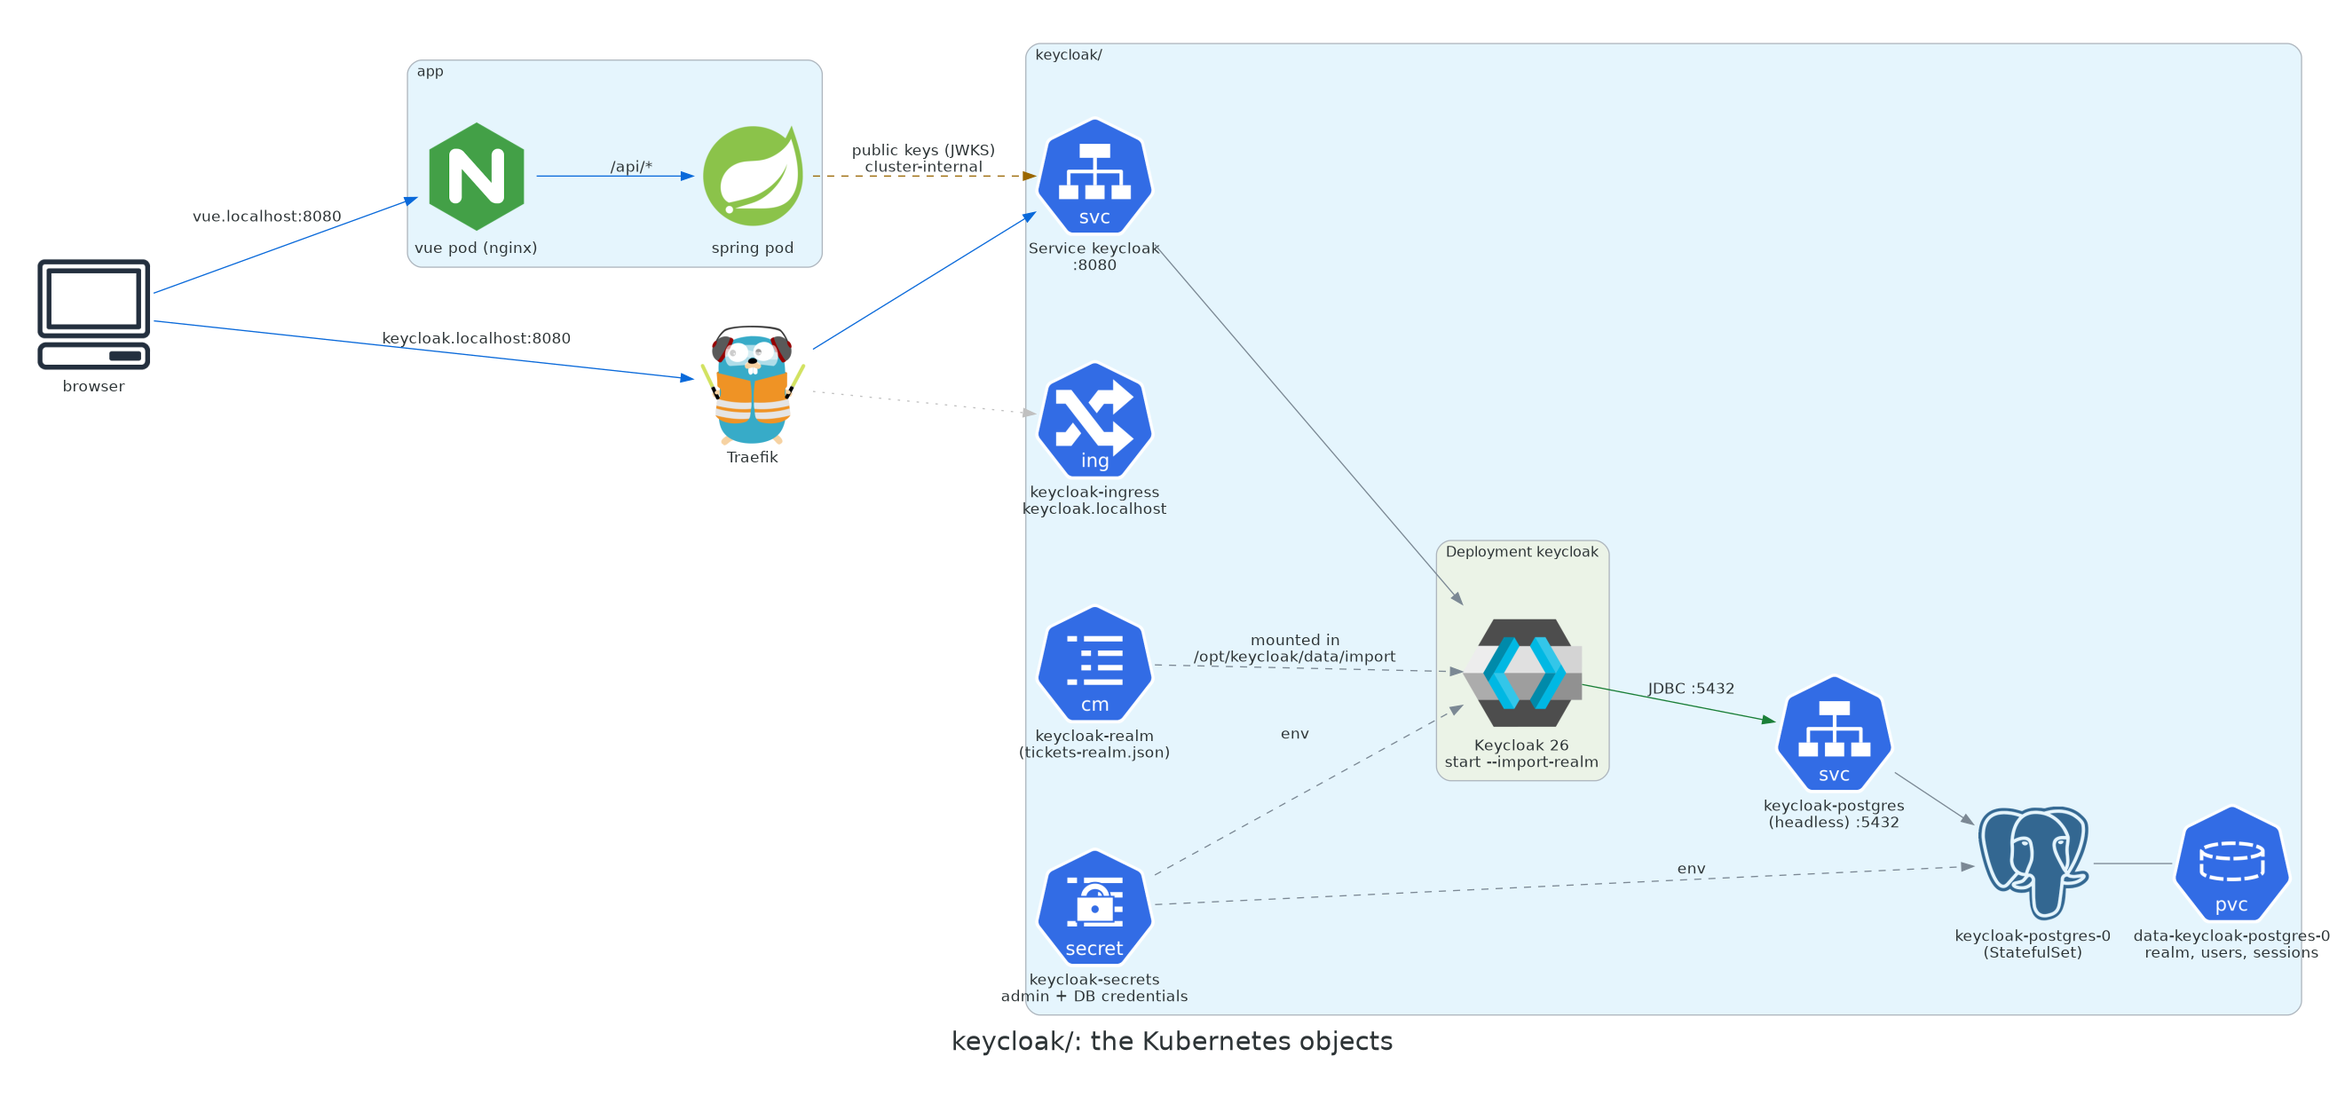
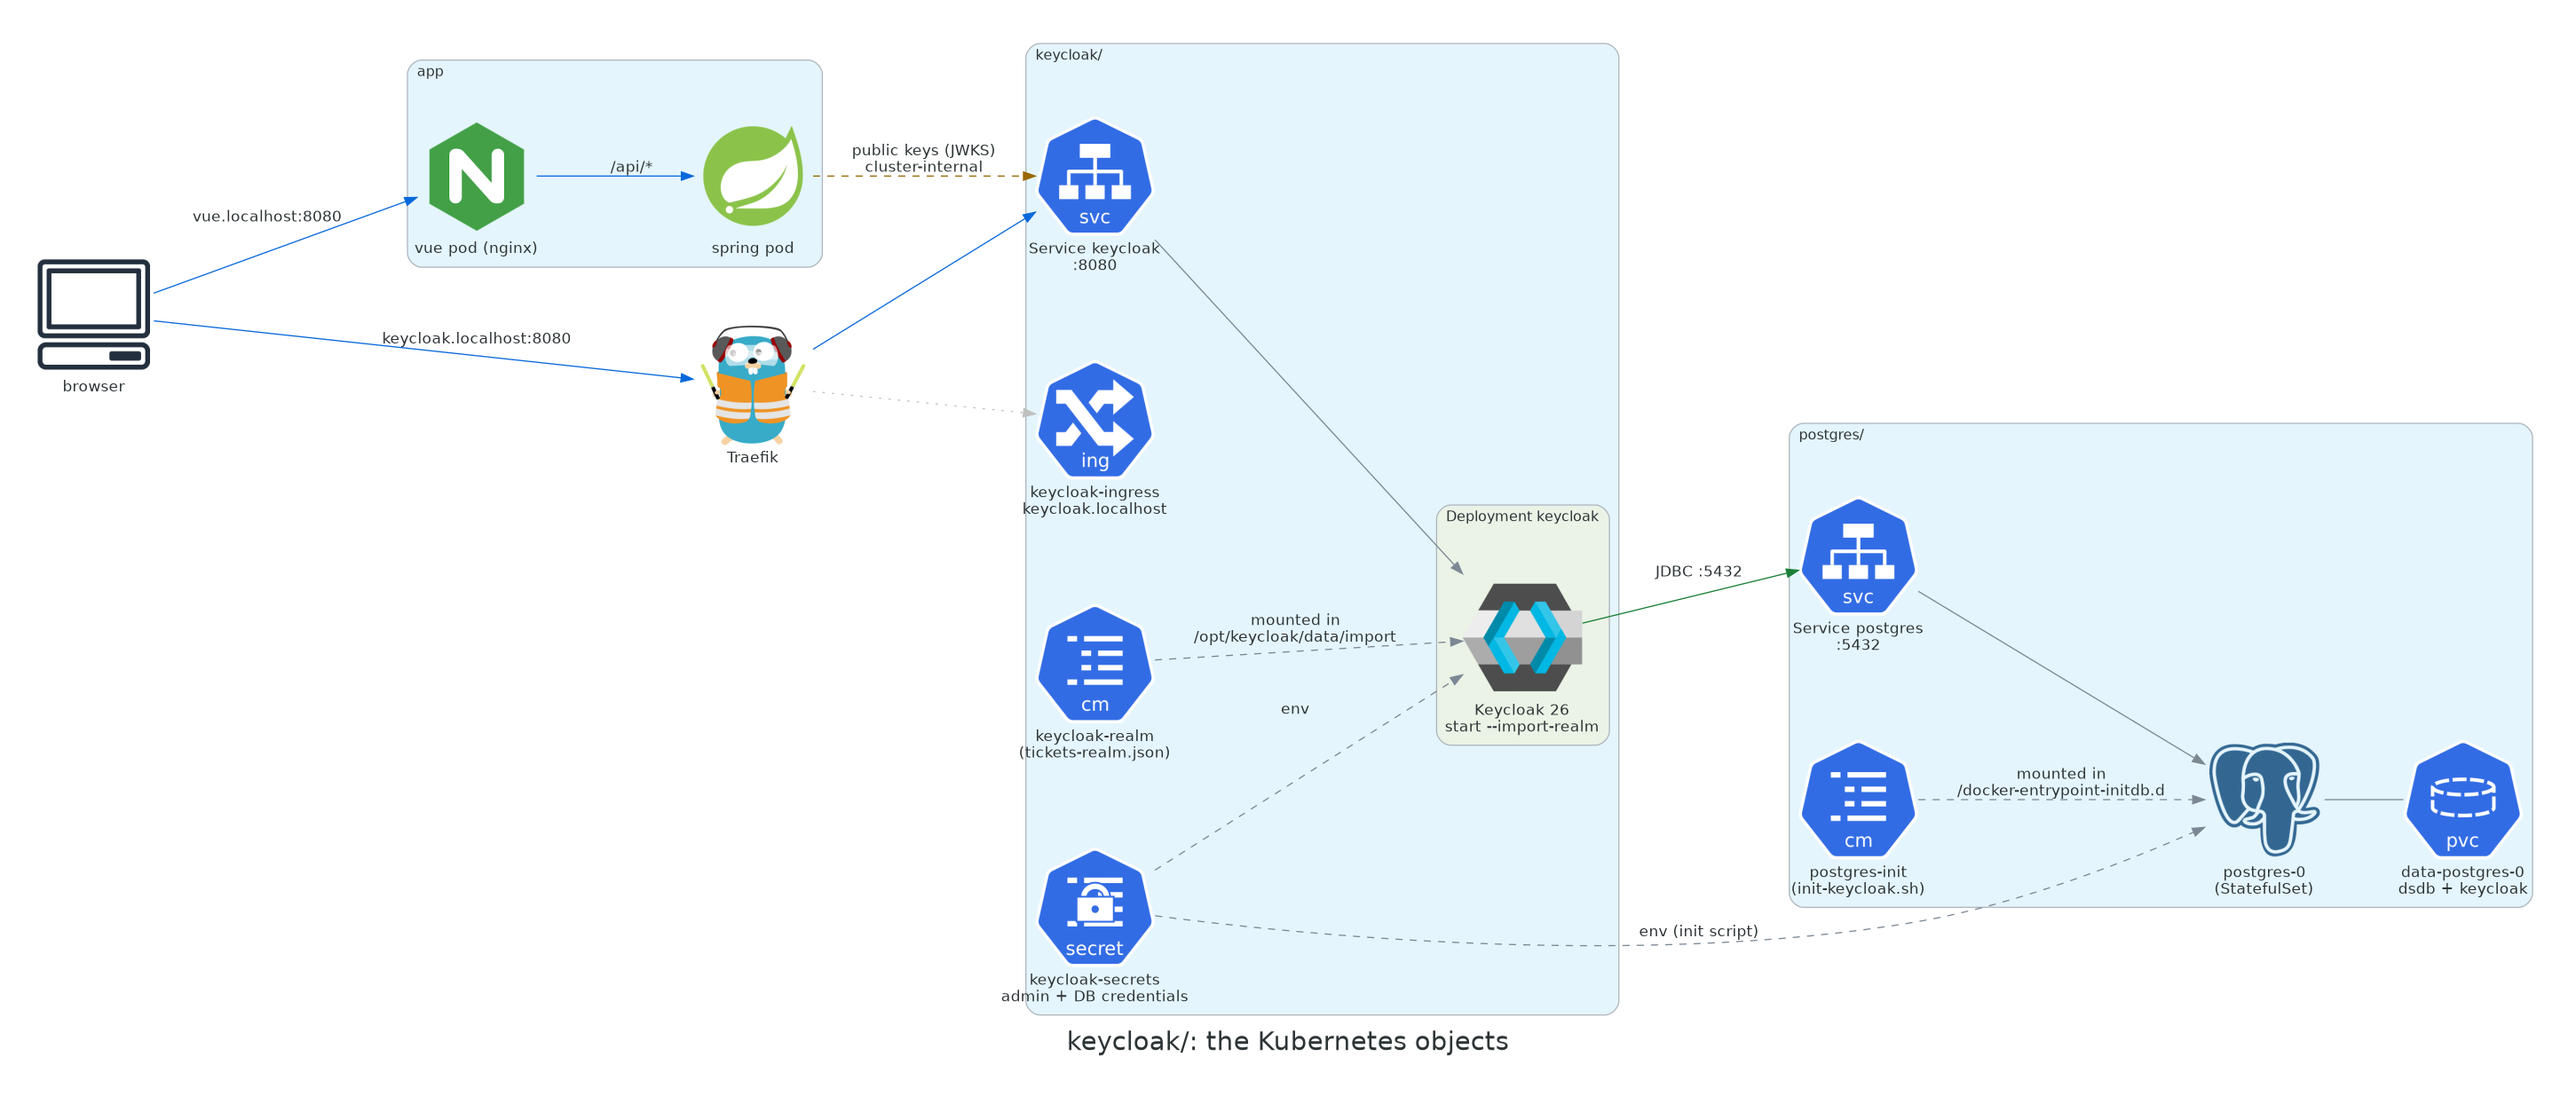
refactor(keycloak): use shared postgres for database
Removes the dedicated PostgreSQL StatefulSet for Keycloak. Keycloak now uses the existing shared PostgreSQL instance, with an init script to create its specific user and database.

This simplifies the deployment and reduces resource usage. Updates deployment instructions and diagrams accordingly.

Changed region(s): [[0.0621, 0.0308, 0.9932, 0.9846], [0.1241, 0.2769, 0.3414, 0.4308], [0.0, 0.2462, 0.1241, 0.3692]]

diff --git a/docs/diagrams/diagrams_src.py b/docs/diagrams/diagrams_src.py
@@ -70,18 +70,17 @@ def architecture():
                 spring = Spring("spring-deployment")
             with Cluster("database (postgres/)"):
                 pg_svc = Service("postgres :5432")
-                pg = PostgreSQL("postgres-0\n(StatefulSet)")
+                pg = PostgreSQL("postgres-0\n(StatefulSet)\ndsdb + keycloak")
             with Cluster("login (keycloak/)"):
                 kc_svc = Service("keycloak :8080")
                 kc = Keycloak("keycloak")
-                kc_pg = PostgreSQL("keycloak-postgres-0\n(StatefulSet)")
 
         browser >> http("HTTP / HTTPS") >> traefik
         traefik >> http("vue.localhost\nor public name") >> vue_svc >> vue
         vue >> http("/api/*") >> spring_svc >> spring
         spring >> db() >> pg_svc >> pg
         traefik >> http("keycloak.localhost\n(login page, tokens)") >> kc_svc >> kc
-        kc >> db() >> kc_pg
+        kc >> db() >> pg_svc
         spring >> keys() >> kc_svc
 
 
@@ -158,16 +157,15 @@ def keycloak_overview():
             with Cluster("login"):
                 kc_svc = Service("keycloak :8080")
                 kc = Keycloak("Keycloak\nrealm tickets")
-                kc_pg = PostgreSQL("keycloak-postgres")
             with Cluster("app"):
                 vue_svc = Service("vue-svc")
                 nginx = Nginx("nginx\n/ , /config.json")
                 spring = Spring("spring")
-                pg = PostgreSQL("postgres")
+                pg = PostgreSQL("postgres\n(dsdb + keycloak)")
 
         browser >> http("1  keycloak.localhost:8080\nlogin page, tokens") >> traefik
         browser >> http("2  vue.localhost:8080\napp + API (Bearer token)") >> traefik
-        traefik >> http("Host keycloak.localhost") >> kc_svc >> kc >> db("") >> kc_pg
+        traefik >> http("Host keycloak.localhost") >> kc_svc >> kc >> db("") >> pg
         traefik >> http("Host vue.localhost") >> vue_svc >> nginx >> http("/api/*") >> spring >> db("") >> pg
         spring >> keys("3  public keys (JWKS)\nonce, cluster-internal\nhttp://keycloak:8080") >> kc_svc
 
@@ -199,9 +197,11 @@ def keycloak_components():
                 kc = Keycloak("Keycloak 26\nstart --import-realm")
             cm = ConfigMap("keycloak-realm\n(tickets-realm.json)")
             secret = Secret("keycloak-secrets\nadmin + DB credentials")
-            pg_svc = Service("keycloak-postgres\n(headless) :5432")
-            pg = PostgreSQL("keycloak-postgres-0\n(StatefulSet)")
-            pvc = PVC("data-keycloak-postgres-0\nrealm, users, sessions")
+        with Cluster("postgres/"):
+            pg_svc = Service("Service postgres\n:5432")
+            pg = PostgreSQL("postgres-0\n(StatefulSet)")
+            init_cm = ConfigMap("postgres-init\n(init-keycloak.sh)")
+            pvc = PVC("data-postgres-0\ndsdb + keycloak")
         with Cluster("app"):
             nginx = Nginx("vue pod (nginx)")
             spring = Spring("spring pod")
@@ -211,7 +211,8 @@ def keycloak_components():
         traefik >> http() >> svc >> kc
         cm >> Edge(label="mounted in\n/opt/keycloak/data/import", style="dashed") >> kc
         secret >> Edge(label="env", style="dashed") >> kc
-        secret >> Edge(label="env", style="dashed") >> pg
+        secret >> Edge(label="env (init script)", style="dashed") >> pg
+        init_cm >> Edge(label="mounted in\n/docker-entrypoint-initdb.d", style="dashed") >> pg
         kc >> db() >> pg_svc >> pg
         pg - pvc
         browser >> http("vue.localhost:8080") >> nginx >> http("/api/*") >> spring

diff --git a/keycloak/README.md b/keycloak/README.md
@@ -7,14 +7,15 @@ This directory runs Keycloak in the cluster for the Tickets app. **How the backe
 | File | What it creates |
 | --- | --- |
 | [keycloak-secret.yaml](keycloak-secret.yaml) | Secret `keycloak-secrets`: the first admin user and the database credentials |
-| [keycloak-postgres.yaml](keycloak-postgres.yaml) | Keycloak's own PostgreSQL: StatefulSet + headless Service `keycloak-postgres` |
 | [realm/tickets-realm.json](realm/tickets-realm.json) | the realm `tickets`: clients, roles, demo users. Loaded into the ConfigMap `keycloak-realm` |
 | [keycloak-deployment.yaml](keycloak-deployment.yaml) | Deployment `keycloak` (image `quay.io/keycloak/keycloak:26.8.2`), production mode, imports the realm |
 | [keycloak-svc.yaml](keycloak-svc.yaml) | ClusterIP Service `keycloak`, port 8080 |
 | [keycloak-ingress.yaml](keycloak-ingress.yaml) | HTTP Ingress for **`keycloak.localhost`** (Traefik, entrypoint `web`) |
 | [keycloak-ingress-letsencrypt.yaml](keycloak-ingress-letsencrypt.yaml) | public **HTTPS** Ingress with Let's Encrypt, only on a cluster reachable from the internet |
 
-![Kubernetes objects of keycloak/: Ingress, Service keycloak, Deployment keycloak with the realm ConfigMap and the Secret, headless Service keycloak-postgres, StatefulSet keycloak-postgres-0 with its PVC; Spring fetches the public keys from Service keycloak](../docs/images/keycloak-components.png)
+Keycloak's database lives in the **shared** `postgres` StatefulSet (see [postgres/README.md](../postgres/README.md)). The `keycloak` database and user are created by an init script ([postgres/postgres-init.yaml](../postgres/postgres-init.yaml)) on the first start of that pod.
+
+![Kubernetes objects of keycloak/: Ingress, Service keycloak, Deployment keycloak with the realm ConfigMap and the Secret; Spring fetches the public keys from Service keycloak; both Keycloak and Spring share the postgres StatefulSet](../docs/images/keycloak-components.png)
 
 The browser talks to Keycloak **directly** (login page, token requests). The Spring backend only downloads Keycloak's **public keys** over the internal Service, to verify the signature of the tokens.
 
@@ -25,7 +26,7 @@ The browser talks to Keycloak **directly** (login page, token requests). The Spr
 | What | Why | How to check |
 | --- | --- | --- |
 | Traefik ingress controller | serves `keycloak-ingress.yaml` | `kubectl get ingressclass` ([main README](../README.md#install-the-traefik-ingress-controller)) |
-| Default StorageClass | for the PVC of `keycloak-postgres` | `kubectl get storageclass` (`standard` on minikube, `microk8s-hostpath` on MicroK8s) |
+| `postgres` StatefulSet running | Keycloak's database is the `keycloak` database on the shared postgres | `kubectl get statefulset postgres` ([postgres/README.md](../postgres/README.md)) |
 | ~1 GB free memory | Keycloak is a Java (Quarkus) server; the limit is 1Gi | `kubectl top nodes` (needs metrics-server) |
 
 ---
@@ -34,16 +35,14 @@ The browser talks to Keycloak **directly** (login page, token requests). The Spr
 
 ```bash
 # 1. credentials (change the passwords first for anything but a local playground)
+#    Must be applied BEFORE postgres so the init script can read the credentials.
 kubectl apply -f keycloak/keycloak-secret.yaml
 
-# 2. Keycloak's database
-kubectl apply -f keycloak/keycloak-postgres.yaml
-kubectl rollout status statefulset/keycloak-postgres
-
-# 3. the realm, as a ConfigMap built from the JSON file
+# 2. the realm, as a ConfigMap built from the JSON file
 kubectl create configmap keycloak-realm --from-file=keycloak/realm/tickets-realm.json
 
-# 4. Keycloak, its Service and Ingress
+# 3. Keycloak, its Service and Ingress
+#    (postgres must already be running — it hosts the "keycloak" database)
 kubectl apply -f keycloak/keycloak-deployment.yaml -f keycloak/keycloak-svc.yaml -f keycloak/keycloak-ingress.yaml
 kubectl rollout status deployment/keycloak --timeout=5m
 ```
@@ -88,8 +87,8 @@ Keycloak is configured with `KC_*` environment variables ([all options](https://
 | Variable | Value | Meaning |
 | --- | --- | --- |
 | *(args)* | `start --import-realm` | **production mode**. `start-dev` would use an embedded H2 database, plain HTTP everywhere and caching off: fine on a laptop, not in a cluster |
-| `KC_DB`, `KC_DB_URL` | `postgres`, `jdbc:postgresql://keycloak-postgres:5432/keycloak` | Keycloak's own database |
-| `KC_DB_USERNAME`, `KC_DB_PASSWORD` | from Secret `keycloak-secrets` | the same keys set `POSTGRES_USER` / `POSTGRES_PASSWORD` of the database |
+| `KC_DB`, `KC_DB_URL` | `postgres`, `jdbc:postgresql://postgres:5432/keycloak` | Keycloak's database on the shared postgres StatefulSet |
+| `KC_DB_USERNAME`, `KC_DB_PASSWORD` | from Secret `keycloak-secrets` | the user and database created by [postgres/postgres-init.yaml](../postgres/postgres-init.yaml) on first init |
 | `KC_BOOTSTRAP_ADMIN_USERNAME`, `..._PASSWORD` | from Secret `keycloak-secrets` | temporary admin of the `master` realm, created only when the database is **empty** |
 | `KC_HTTP_ENABLED` | `true` | allow plain HTTP. TLS is terminated by Traefik, which forwards plain HTTP inside the cluster |
 | `KC_HOSTNAME_STRICT` | `false` | no fixed public URL: Keycloak uses the URL each request was sent to (see below) |
@@ -283,10 +282,11 @@ To apply an edited JSON file, start from an empty realm:
 kubectl create configmap keycloak-realm --from-file=keycloak/realm/tickets-realm.json --dry-run=client -o yaml | kubectl apply -f -
 kubectl rollout restart deployment/keycloak
 
-# b) or wipe all of Keycloak's data (the database volume)
-kubectl delete -f keycloak/keycloak-deployment.yaml -f keycloak/keycloak-postgres.yaml
-kubectl delete pvc data-keycloak-postgres-0
-# ... then deploy again
+# b) or wipe all of Keycloak's data (drop the keycloak database from the shared postgres)
+kubectl delete -f keycloak/keycloak-deployment.yaml
+kubectl exec -it postgres-0 -- psql -U dbuser -c "DROP DATABASE keycloak;" -c "DROP USER keycloak;"
+# ... then deploy Keycloak again (postgres re-runs the init script only on a fresh PVC;
+#     for an existing PVC you must recreate the database manually as above)
 ```
 
 To go the other way and save the changes you made in the console as JSON: *Realm settings* → *Action* → *Partial export* (users and secrets are not included).
@@ -347,8 +347,9 @@ Behind HTTPS, `KC_PROXY_HEADERS=xforwarded` is what makes Keycloak generate `htt
 | Symptom | Likely cause |
 | --- | --- |
 | Pod `0/1` for minutes, restarts | first start is slow (build + schema). Check `kubectl logs deploy/keycloak`. If the startup probe gave up, the database may be unreachable |
-| Log: `Connection to keycloak-postgres:5432 refused` | `keycloak-postgres-0` is not Ready yet. `kubectl rollout status statefulset/keycloak-postgres` |
-| Log: `password authentication failed for user "keycloak"` | the Secret was changed after the database was created. Postgres keeps the first password: restore it, or delete the PVC `data-keycloak-postgres-0` |
+| Log: `Connection to postgres:5432 refused` | `postgres-0` is not Ready yet. `kubectl rollout status statefulset/postgres` |
+| Log: `password authentication failed for user "keycloak"` | the Secret was changed after the database was created. Restore it, or drop and recreate the user: `kubectl exec -it postgres-0 -- psql -U dbuser -c "ALTER USER keycloak WITH PASSWORD 'new-pass';"` |
+| Log: `database "keycloak" does not exist` | the init script did not run (PVC already existed). Create the database manually: `kubectl exec -it postgres-0 -- psql -U dbuser -c "CREATE USER keycloak WITH PASSWORD 'keycloak-db-pass'; CREATE DATABASE keycloak OWNER keycloak;"` |
 | Pod `ContainerCreating`, event `configmap "keycloak-realm" not found` | step 3 of [Deploy](#deploy) was skipped |
 | Pod `OOMKilled` | raise `limits.memory`; Keycloak needs at least ~700 MiB |
 | Browser: *"Web Crypto API is not available"* | page opened over plain HTTP on a name other than `localhost` / `*.localhost`. Use `keycloak.localhost` / `vue.localhost`, or HTTPS |
@@ -362,8 +363,9 @@ Behind HTTPS, `KC_PROXY_HEADERS=xforwarded` is what makes Keycloak generate `htt
 ```bash
 kubectl delete -f keycloak/keycloak-ingress.yaml -f keycloak/keycloak-svc.yaml -f keycloak/keycloak-deployment.yaml --ignore-not-found
 kubectl delete configmap keycloak-realm --ignore-not-found
-kubectl delete -f keycloak/keycloak-postgres.yaml -f keycloak/keycloak-secret.yaml --ignore-not-found
-kubectl delete pvc data-keycloak-postgres-0      # deletes all Keycloak data (users, sessions, realm changes)
+kubectl delete -f keycloak/keycloak-secret.yaml --ignore-not-found
+# To also remove Keycloak's data from the shared postgres:
+kubectl exec -it postgres-0 -- psql -U dbuser -c "DROP DATABASE IF EXISTS keycloak; DROP USER IF EXISTS keycloak;"
 ```
 
 ## Links

diff --git a/postgres/README.md b/postgres/README.md
@@ -1,13 +1,19 @@
 # PostgreSQL: StatefulSet + Services + Volume
 
-A single-instance PostgreSQL 16 database running as a StatefulSet with persistent storage. The [Spring backend](../spring/README.md) uses it.
+A single-instance PostgreSQL 16 database running as a StatefulSet with persistent storage. Both the [Spring backend](../spring/README.md) and [Keycloak](../keycloak/README.md) use it, each in their own database.
 
 - `postgres-statefulset.yaml` – the StatefulSet (`postgres-0`) with a `volumeClaimTemplate` (1Gi, default StorageClass), probes (`pg_isready`) and resource limits
 - `postgres-svc.yaml` – two Services:
   - `postgres` (ClusterIP): what applications use, e.g. `jdbc:postgresql://postgres:5432/dsdb`
   - `postgres-headless` (`clusterIP: None`): required by the StatefulSet; gives the pod a stable DNS name `postgres-0.postgres-headless`
+- `postgres-init.yaml` – ConfigMap with an init script that creates the `keycloak` user and database on first start
 
-Database `dsdb`, user `dbuser`, password `pass123` (plain text for simplicity; use a `Secret` with `secretKeyRef` in real deployments).
+| Database | User | Used by |
+| --- | --- | --- |
+| `dsdb` | `dbuser` / `pass123` | Spring backend |
+| `keycloak` | `keycloak` / from `keycloak-secrets` | Keycloak identity provider |
+
+> The init script in `postgres-init.yaml` runs **only on the first start** (empty data directory). If the PVC already exists, create the database manually: `kubectl exec -it postgres-0 -- psql -U dbuser -c "CREATE USER keycloak WITH PASSWORD 'keycloak-db-pass'; CREATE DATABASE keycloak OWNER keycloak;"`
 
 ## Prerequisites
 

diff --git a/Keycloak.md b/Keycloak.md
@@ -111,9 +111,8 @@ docker push ghcr.io/<GITHUB-USERNAME>/cp-vue:keycloak
 Details in [keycloak/README.md → Deploy](keycloak/README.md#deploy):
 
 ```bash
+# Apply the secret first: the postgres init script reads the credentials from it
 kubectl apply -f keycloak/keycloak-secret.yaml
-kubectl apply -f keycloak/keycloak-postgres.yaml
-kubectl rollout status statefulset/keycloak-postgres
 
 kubectl create configmap keycloak-realm --from-file=keycloak/realm/tickets-realm.json
 kubectl apply -f keycloak/keycloak-deployment.yaml -f keycloak/keycloak-svc.yaml -f keycloak/keycloak-ingress.yaml
@@ -134,7 +133,7 @@ kubectl rollout status deployment/spring-deployment
 Order does not matter much: Spring starts without Keycloak (it fetches the keys at the first request), and nginx does not contact Keycloak at all.
 
 ```bash
-kubectl get pods            # keycloak, keycloak-postgres-0, postgres-0, spring-…, vue-…  all Running 1/1
+kubectl get pods            # keycloak, postgres-0, spring-…, vue-…  all Running 1/1
 kubectl get ingress         # keycloak-ingress (keycloak.localhost), vue-ingress (vue.local, vue.localhost)
 ```
 

diff --git a/README.md b/README.md
@@ -238,7 +238,7 @@ kubectl apply -f vue/vue-deployment.yaml -f vue/vue-svc.yaml -f vue/vue-ingress.
 Then Keycloak, which handles the login ([Keycloak.md → Deploy](Keycloak.md#2-deploy)):
 
 ```bash
-kubectl apply -f keycloak/keycloak-secret.yaml -f keycloak/keycloak-postgres.yaml
+kubectl apply -f keycloak/keycloak-secret.yaml   # apply before postgres (init script reads it)
 kubectl create configmap keycloak-realm --from-file=keycloak/realm/tickets-realm.json
 kubectl apply -f keycloak/keycloak-deployment.yaml -f keycloak/keycloak-svc.yaml -f keycloak/keycloak-ingress.yaml
 kubectl rollout status deployment/keycloak --timeout=5m     # first start: 1-2 minutes
